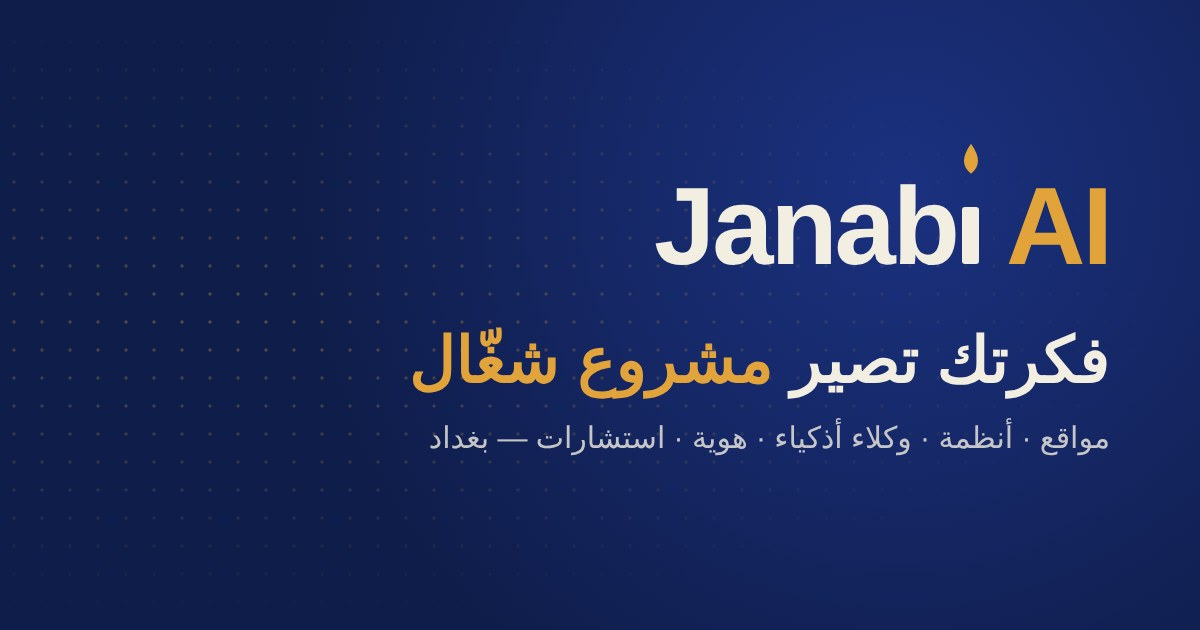
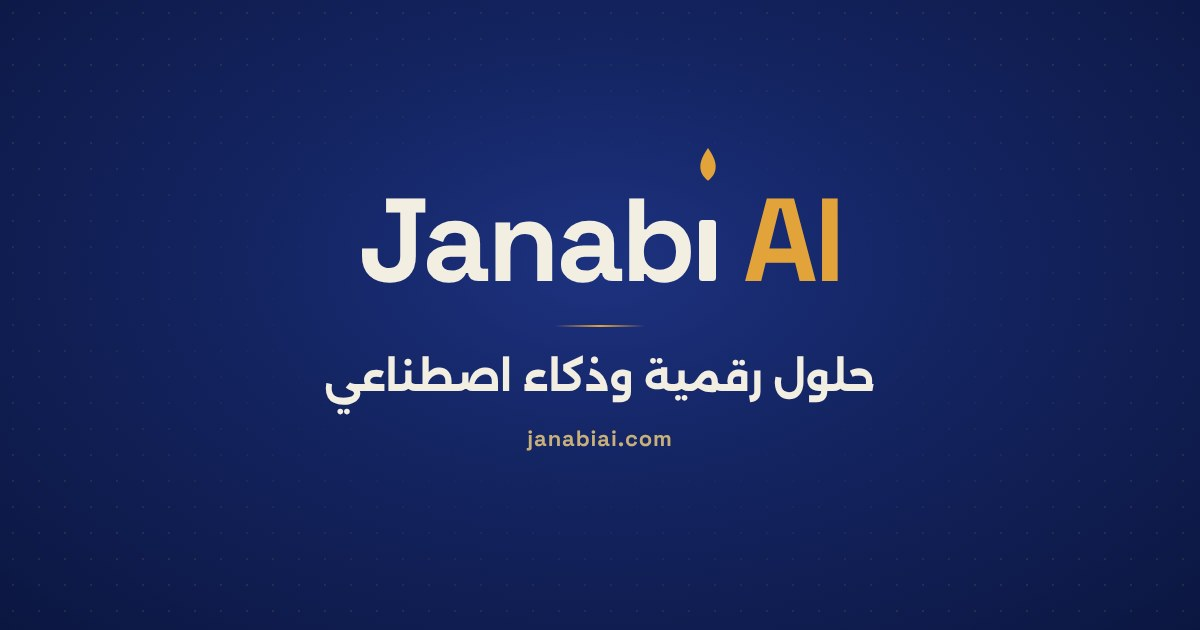
Centered preview image (safe for WhatsApp square crop), plainer founder text
Claude-Session: https://claude.ai/code/session_01SujBwPUxmUT38pu4sD53ap

Changed region(s): [[0.185, 0.0, 1.0, 0.7238]]

diff --git a/ali/index.html b/ali/index.html
@@ -11,11 +11,11 @@
 <meta property="og:description" content="من المطبعة للسياحة لشركتي الخاصة، واليوم حلول رقمية بالذكاء الاصطناعي ببغداد.">
 <meta property="og:type" content="profile">
 <meta property="og:url" content="https://janabiai.com/ali/">
-<meta property="og:image" content="https://janabiai.com/preview.jpg?v=3">
+<meta property="og:image" content="https://janabiai.com/preview.jpg?v=4">
 <meta property="og:image:width" content="1200">
 <meta property="og:image:height" content="630">
 <meta property="og:image:alt" content="Janabi AI">
-<meta name="twitter:image" content="https://janabiai.com/preview.jpg?v=3">
+<meta name="twitter:image" content="https://janabiai.com/preview.jpg?v=4">
 <meta property="og:locale" content="ar_IQ">
 <meta property="og:site_name" content="Janabi AI">
 <meta name="twitter:card" content="summary_large_image">
@@ -67,7 +67,7 @@ footer{text-align:center;color:var(--muted);font-size:.9rem;padding:24px 0 40px}
 <main class="wrap">
   <section>
     <h2>منو علي الجنابي؟</h2>
-    <p>شاب من بغداد، بنى نفسه بنفسه من الصفر. اشتغل بالطباعة، وبالسفر والسياحة، وأسس شركته الخاصة. واليوم يحول هالخبرة لحلول رقمية بالذكاء الاصطناعي ويا <a href="/">Janabi AI</a>: مواقع وأنظمة ووكلاء ذكيين واستشارات للمشاريع. هدفه يوصل للشباب ويعلمهم أدوات الذكاء الاصطناعي، واللي يثبت نفسه يشتغل وياه.</p>
+    <p>من بغداد. بدا بالتصميم والطباعة، وبعدها السفر والسياحة، وأسس شركته الخاصة. هالسنين علمته يفهم الناس ويحل مشاكل الشغل على الأرض. واليوم يحول هالخبرة لحلول رقمية بالذكاء الاصطناعي ويا <a href="/">Janabi AI</a>: مواقع وأنظمة ووكلاء ذكيين واستشارات للمشاريع. ويشتغل حتى يوصل أدوات الذكاء الاصطناعي للشباب، ويبنون شغلهم بإيدهم.</p>
   </section>
   <section>
     <h2>الطريق</h2>
@@ -75,7 +75,7 @@ footer{text-align:center;color:var(--muted);font-size:.9rem;padding:24px 0 40px}
       <li><b>2017</b>بدا مصمم بمطبعة ببغداد، وصار يدير المطبعة كلها: تصميم وطباعة ولافتات.</li>
       <li><b>2019</b>ممثل سفر وسياحة وقائد مجاميع سفرات، يتعامل ويا الناس ويحل مشاكلهم بالميدان.</li>
       <li><b>2021</b>أسس شركته الخاصة للسفر والسياحة «القائد الصغير»، وتعلم شلون تمشي شركة من الصفر.</li>
-      <li><b>2026</b>أسس <bdi>Janabi AI</bdi> للحلول الرقمية والذكاء الاصطناعي، وبنى سراج: وكيل ذكي يرد على الزبائن بالعراقي، كتابة وصوت.</li>
+      <li><b>2026</b>أسس <bdi>Janabi AI</bdi> للحلول الرقمية والذكاء الاصطناعي.</li>
     </ol>
   </section>
   <section>

diff --git a/index.html b/index.html
@@ -11,11 +11,11 @@
 <meta property="og:description" content="مواقع ومنيو بالباركود ووكلاء ذكيين مثل سراج، يرد على زبائنك بالعراقي 24 ساعة. شوف نماذج حقيقية من شغلنا.">
 <meta property="og:type" content="website">
 <meta property="og:url" content="https://janabiai.com/">
-<meta property="og:image" content="https://janabiai.com/preview.jpg?v=3">
+<meta property="og:image" content="https://janabiai.com/preview.jpg?v=4">
 <meta property="og:image:width" content="1200">
 <meta property="og:image:height" content="630">
 <meta property="og:image:alt" content="Janabi AI">
-<meta name="twitter:image" content="https://janabiai.com/preview.jpg?v=3">
+<meta name="twitter:image" content="https://janabiai.com/preview.jpg?v=4">
 <meta property="og:locale" content="ar_IQ">
 <meta property="og:site_name" content="Janabi AI">
 <meta name="twitter:card" content="summary_large_image">

diff --git a/en/index.html b/en/index.html
@@ -11,11 +11,11 @@
 <meta property="og:description" content="Websites, QR menus and AI agents like Siraj that answer your customers 24/7. See real samples of our work.">
 <meta property="og:type" content="website">
 <meta property="og:url" content="https://janabiai.com/en/">
-<meta property="og:image" content="https://janabiai.com/preview.jpg?v=3">
+<meta property="og:image" content="https://janabiai.com/preview.jpg?v=4">
 <meta property="og:image:width" content="1200">
 <meta property="og:image:height" content="630">
 <meta property="og:image:alt" content="Janabi AI">
-<meta name="twitter:image" content="https://janabiai.com/preview.jpg?v=3">
+<meta name="twitter:image" content="https://janabiai.com/preview.jpg?v=4">
 <meta property="og:locale" content="en_US">
 <meta property="og:site_name" content="Janabi AI">
 <meta name="twitter:card" content="summary_large_image">
